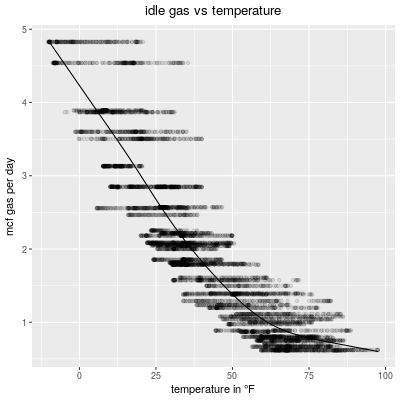
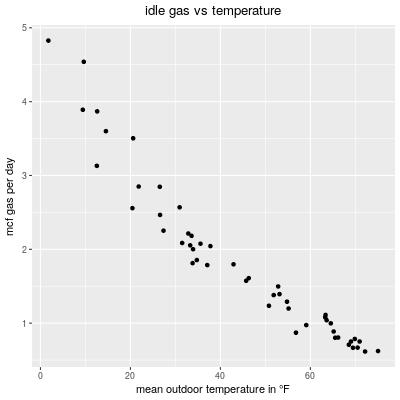
auto commit

diff --git a/index.html b/index.html
@@ -4,7 +4,7 @@
 <html xmlns="http://www.w3.org/1999/xhtml" lang="en" xml:lang="en">
 <head>
 <title></title>
-<!-- 2017-06-01 Thu 07:29 -->
+<!-- 2017-06-26 Mon 05:33 -->
 <meta  http-equiv="Content-Type" content="text/html;charset=utf-8" />
 <meta  name="generator" content="Org-mode" />
 <style type="text/css">
@@ -265,11 +265,10 @@ heated for sesshin setup.)
 If you look carefully at the above plots you may notice&#x2014;as you
 would expect&#x2014;that gas consumption decreases as it gets warmer
 outside. The next figure is a scatterplot of idle gas usage versus
-the corresponding outside air temperature for the period from
-February 2015 through July 2015. The smooth line running through the
-points is just a visual aid that summarizes the overall trend. Think
-of it as tracking the center of the cloud of points as temperature
-changes.
+average outside air temperature for the period from February 2015
+through July 2015. That is, any given gas value is the rate at which
+we used gas over a two-day period and the corresponding temperature
+value is the average of the temperature readings over that period.
 </p>
 
 
@@ -675,8 +674,8 @@ where \(y\) is electricity consumption in kWh per day and the
 </div>
 </div>
 <div id="postamble" class="status">
-<p class="date">Created: 2017-06-01 Thu 07:29</p>
-<p class="creator"><a href="http://www.gnu.org/software/emacs/">Emacs</a> 26.0.50.2 (<a href="http://orgmode.org">Org</a> mode 8.2.10)</p>
+<p class="date">Created: 2017-06-26 Mon 05:33</p>
+<p class="creator"><a href="http://www.gnu.org/software/emacs/">Emacs</a> 26.0.50.3 (<a href="http://orgmode.org">Org</a> mode 8.2.10)</p>
 <p class="validation"><a href="http://validator.w3.org/check?uri=referer">Validate</a></p>
 </div>
 </body>
